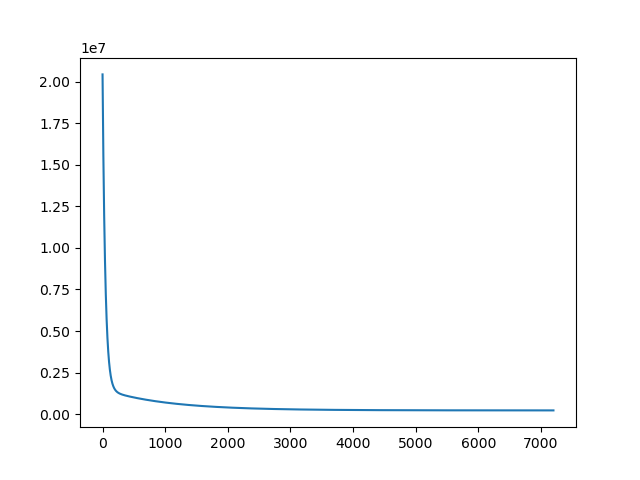
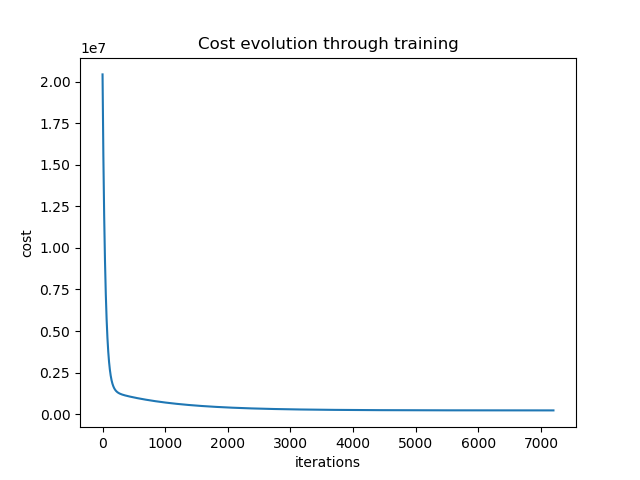
improved graphics

diff --git a/train.py b/train.py
@@ -81,13 +81,13 @@ def gradient_descent(X, y, theta,
             diff = np.dot((predict(X_tmp,theta) - y_tmp), X_tmp)
             theta = theta - alpha * (diff / m + reg)
             
-            # tol
-            curr_cost = cost(X_tmp, y_tmp, theta, lbda=lbda, regularization=regularization)
-            if abs(prev_cost - curr_cost) < tol:
-                print("training finished in {} iterations".format(i))
-                return theta, J_history
-            prev_cost = curr_cost
-            J_history.append(curr_cost)        
+        # tol
+        curr_cost = cost(X_tmp, y_tmp, theta, lbda=lbda, regularization=regularization)
+        if abs(prev_cost - curr_cost) < tol:
+            print("training finished in {} iterations".format(i))
+            return theta, J_history
+        prev_cost = curr_cost
+        J_history.append(curr_cost)        
         
         # learning rate decay
         alpha = exponentionnal_decay(alpha_0, i, decay_rate)
@@ -113,6 +113,9 @@ def plot(df, theta, name):
 
     plt.scatter(X, y)
     abline(theta[1], theta[0])
+    plt.xlabel("mileage")
+    plt.ylabel("price")
+    plt.title("Evolution of price depending on mileage")
     plt.savefig(name + ".png")
     plt.clf()
 
@@ -152,6 +155,9 @@ def main():
         fit = plt.figure()
         ax = plt.axes()
         ax.plot(J_history)
+        plt.xlabel("iterations")
+        plt.ylabel("cost")
+        plt.title("Cost evolution through training")
         plt.savefig('cost_history_bonus.png')
 
         plot(df, theta, "visu_bonus")
@@ -174,6 +180,9 @@ def main():
         fit = plt.figure()
         ax = plt.axes()
         ax.plot(J_history)
+        plt.xlabel("iterations")
+        plt.ylabel("cost")
+        plt.title("Cost evolution through training")
         plt.savefig('cost_history.png')
 
         plot(df, theta, "visu")
